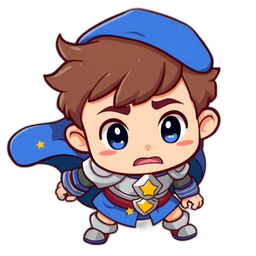
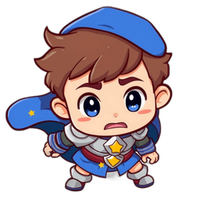
perf: optimize asset sizes and preload backgrounds
Compress backgrounds to 960x540 @ q60 (47-66KB each, down from
128-157KB). Shrink character sprites to 200x200 (39-61KB each).
Preload all 4 backgrounds on page load so switching operations
is instant. Total asset size ~500KB, down from ~1MB.

diff --git a/src/App.tsx b/src/App.tsx
@@ -37,6 +37,12 @@ const bgImages: Record<string, string> = {
   division: require('./assets/images/backgrounds/bg_division.jpg'),
 };
 
+// Preload all backgrounds on page load so switching is instant
+Object.values(bgImages).forEach((src) => {
+  const img = new window.Image();
+  img.src = src;
+});
+
 const enemyImages: Record<string, any> = {
   addition: require('./assets/images/characters/enemy_addition.png'),
   subtraction: require('./assets/images/characters/enemy_subtraction.png'),
